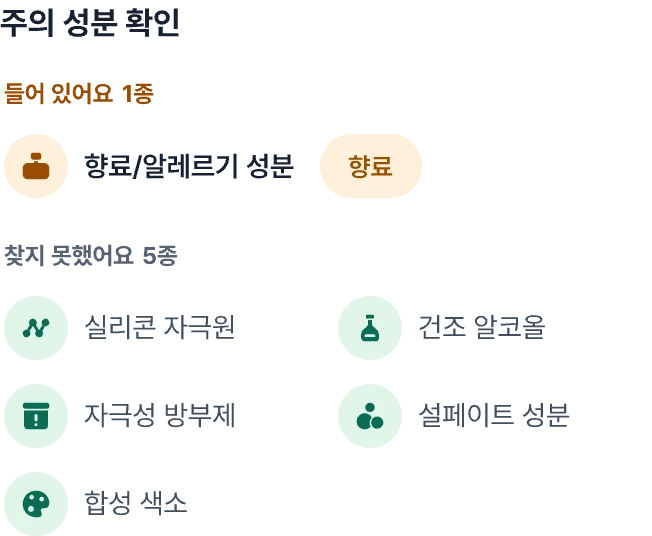
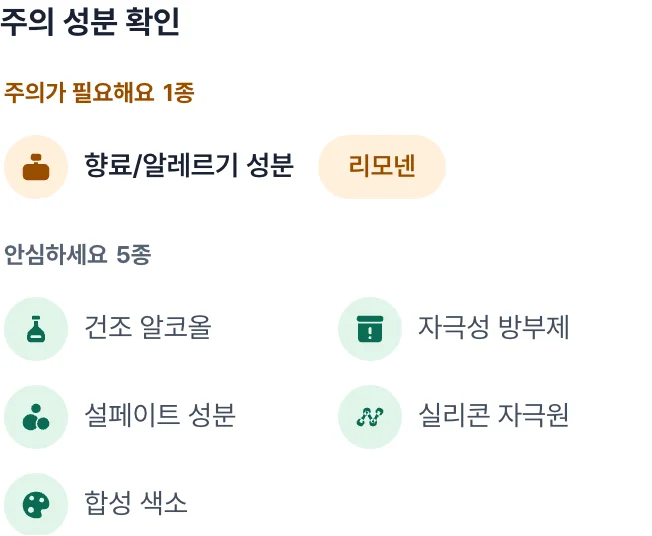
refactor : 제품 상세 고민별 성분과 주의 성분 확인 문구 정리

diff --git a/client/components/product/ProductDetail.test.tsx b/client/components/product/ProductDetail.test.tsx
@@ -3,7 +3,7 @@
  */
 import type { ShelfProductResponse } from "@poudy/api/api.zod";
 import { ToastProvider } from "@poudy/design-system/toast";
-import { act, render as renderElement, screen, waitFor, within } from "@testing-library/react";
+import { act, fireEvent, render as renderElement, screen, waitFor, within } from "@testing-library/react";
 import userEvent from "@testing-library/user-event";
 import { afterEach, beforeEach, describe, expect, it, vi } from "vitest";
 
@@ -71,7 +71,7 @@ describe("제품 성분 요약", () => {
       },
     };
     const { rerender } = render(<ProductDetail product={product} />);
-    const section = screen.getByRole("heading", { name: "고민별 성분" }).closest("section")!;
+    const section = screen.getByRole("heading", { name: "이런 사람에게 추천해요" }).closest("section")!;
     const caution = screen.getByRole("heading", { name: "주의 성분 확인" }).closest("section")!;
     const personal = document.querySelector('[data-shelf-intro="unsuitable"]')!;
     const opener = screen.getByRole("button", { name: `전체 성분 ${product.selectedPart.ingredients.length}개 보기` });
@@ -463,7 +463,9 @@ describe("성분 정보 선택 차단", () => {
   it("고민별 성분에도 선택을 막는 표시를 단다", () => {
     render(<ProductDetail product={productDetails[0]} />);
 
-    expect(screen.getByRole("heading", { name: "고민별 성분" }).closest("section")).toHaveAttribute("data-no-select");
+    expect(screen.getByRole("heading", { name: "이런 사람에게 추천해요" }).closest("section")).toHaveAttribute(
+      "data-no-select",
+    );
   });
 
   it("제품 이름과 정보 출처는 그대로 선택된다", () => {
@@ -477,20 +479,21 @@ describe("성분 정보 선택 차단", () => {
 describe("고민별 성분", () => {
   const taggedProduct = productDetails[0]!;
 
-  /* 같은 말이 유수분 태그에도 있어 쓰임새 영역 안에서만 친다. */
+  /* 같은 말이 유수분 태그에도 있어 쓰임새 영역 안에서만 친다. 고민은 모두 닫힌 채 시작해 먼저 연다. */
   const usageRow = () => {
-    const section = screen.getByRole("heading", { name: "고민별 성분" }).closest("section")!;
+    const section = screen.getByRole("heading", { name: "이런 사람에게 추천해요" }).closest("section")!;
+    const trigger = within(section).getByRole("button", { name: /건조·당김/ });
+    if (trigger.getAttribute("aria-expanded") === "false") fireEvent.click(trigger);
 
-    return within(section)
-      .getByRole("button", { name: /건조·당김/ })
-      .closest("h4")!.parentElement!;
+    return trigger.closest("h4")!.parentElement!;
   };
 
-  it("서버가 제공한 고민명과 효능명을 표시한다", () => {
+  it("서버가 제공한 고민명을 표시하고 효능명과 첫 고민 펼침은 두지 않는다", () => {
     render(<ProductDetail product={taggedProduct} />);
 
-    expect(usageRow()).toHaveTextContent("건조·당김");
-    expect(usageRow()).toHaveTextContent("보습");
+    const trigger = screen.getByRole("button", { name: /건조·당김/ });
+    expect(trigger).toHaveAttribute("aria-expanded", "false");
+    expect(trigger).not.toHaveTextContent("보습");
   });
 
   it("성분 칩마다 성분 설명으로 가는 링크를 둔다", () => {
@@ -589,7 +592,13 @@ describe("성분군 칩", () => {
     },
   };
 
-  const usageSection = () => screen.getByRole("heading", { name: /고민별 성분/ }).closest("section")!;
+  /* 고민은 모두 닫힌 채 시작해 첫 고민을 먼저 연다. */
+  const usageSection = () => {
+    const section = screen.getByRole("heading", { name: /이런 사람에게 추천해요/ }).closest("section")!;
+    const [first] = within(section).getAllByRole("button");
+    if (first?.getAttribute("aria-expanded") === "false") fireEvent.click(first);
+    return section;
+  };
 
   it("고민마다 같은 성분군의 구성 성분이 다르면 누른 항목의 실제 성분만 표시한다", async () => {
     render(
@@ -751,23 +760,23 @@ describe("성분군 칩", () => {
 describe("주의 성분 확인", () => {
   const bundleOf = (title: string) => screen.getByText(title).parentElement!;
 
-  it("들어 있는 기준을 개수와 함께 '들어 있어요' 묶음에 모아 위에 둔다", () => {
+  it("들어 있는 기준을 개수와 함께 '주의가 필요해요' 묶음에 모아 위에 둔다", () => {
     render(<ProductDetail product={untaggedProductDetail} />);
 
-    const contained = bundleOf("들어 있어요");
-    const missing = bundleOf("찾지 못했어요");
+    const contained = bundleOf("주의가 필요해요");
+    const missing = bundleOf("안심하세요");
 
-    expect(contained).toHaveTextContent("들어 있어요1종");
+    expect(contained).toHaveTextContent("주의가 필요해요1종");
     expect(within(contained).getByRole("link", { name: "향료/알레르기 성분" })).toBeInTheDocument();
     expect(contained.compareDocumentPosition(missing) & Node.DOCUMENT_POSITION_FOLLOWING).toBeTruthy();
   });
 
-  it("들어 있지 않은 기준은 '찾지 못했어요' 묶음에 둔다", () => {
+  it("들어 있지 않은 기준은 '안심하세요' 묶음에 둔다", () => {
     render(<ProductDetail product={untaggedProductDetail} />);
 
-    const missing = bundleOf("찾지 못했어요");
+    const missing = bundleOf("안심하세요");
 
-    expect(missing).toHaveTextContent("찾지 못했어요5종");
+    expect(missing).toHaveTextContent("안심하세요5종");
     expect(within(missing).getByRole("link", { name: "건조 알코올" })).toBeInTheDocument();
   });
 
@@ -804,7 +813,7 @@ describe("주의 성분 확인", () => {
   it("들어 있는 기준 옆에 이 제품의 해당 성분을 칩으로 두고 성분 설명으로 잇는다", () => {
     render(<ProductDetail product={untaggedProductDetail} excludeCodes={excludeCodes} />);
 
-    const contained = bundleOf("들어 있어요");
+    const contained = bundleOf("주의가 필요해요");
 
     expect(within(contained).getByRole("link", { name: first!.koreanName })).toHaveAttribute(
       "href",
@@ -816,7 +825,7 @@ describe("주의 성분 확인", () => {
     vi.mocked(track).mockClear();
     render(<ProductDetail product={untaggedProductDetail} excludeCodes={excludeCodes} />);
 
-    await userEvent.click(within(bundleOf("들어 있어요")).getByRole("link", { name: first!.koreanName }));
+    await userEvent.click(within(bundleOf("주의가 필요해요")).getByRole("link", { name: first!.koreanName }));
 
     expect(await screen.findByRole("dialog")).toBeInTheDocument();
     expect(track).toHaveBeenCalledWith("ingredient_sheet_opened", {
@@ -829,7 +838,7 @@ describe("주의 성분 확인", () => {
   it("성분군 목록을 받지 못해 걸린 성분을 모르면 칩을 두지 않는다", () => {
     render(<ProductDetail product={untaggedProductDetail} />);
 
-    expect(within(bundleOf("들어 있어요")).getAllByRole("link")).toHaveLength(1);
+    expect(within(bundleOf("주의가 필요해요")).getAllByRole("link")).toHaveLength(1);
   });
 
   it("들어 있지 않은 기준은 성분 목록 없이 성분군 설명만 보여 준다", async () => {
@@ -876,7 +885,7 @@ describe("주의 성분 확인", () => {
     expect(within(sheet).queryByRole("heading", { name: "이 제품에 든 성분" })).not.toBeInTheDocument();
   });
 
-  it("들어 있는 기준이 없으면 '찾지 못했어요' 묶음만 둔다", () => {
+  it("들어 있는 기준이 없으면 '안심하세요' 묶음만 둔다", () => {
     const product = {
       ...untaggedProductDetail,
       selectedPart: {
@@ -889,8 +898,8 @@ describe("주의 성분 확인", () => {
     };
     render(<ProductDetail product={product} />);
 
-    expect(screen.queryByText("들어 있어요")).not.toBeInTheDocument();
-    expect(bundleOf("찾지 못했어요")).toHaveTextContent("찾지 못했어요6종");
+    expect(screen.queryByText("주의가 필요해요")).not.toBeInTheDocument();
+    expect(bundleOf("안심하세요")).toHaveTextContent("안심하세요6종");
   });
 });
 

diff --git a/client/components/product/ConcernIngredients.test.tsx b/client/components/product/ConcernIngredients.test.tsx
@@ -41,14 +41,17 @@ const part: ProductPartResponse = {
 };
 
 describe("고민별 성분 아코디언", () => {
-  it("첫 고민을 열고 서버가 합쳐 준 항목을 한 목록으로 표시하며 효능명은 헤더에만 둔다", () => {
+  it("모든 고민을 닫은 채 두고, 펼치면 서버가 합쳐 준 항목을 한 목록으로 표시하며 효능명은 두지 않는다", async () => {
     render(<UsageIngredients productId={1} part={part} />);
+    expect(screen.getByRole("heading", { name: "이런 사람에게 추천해요" })).toBeInTheDocument();
     const buttons = screen.getAllByRole("button");
     expect(buttons).toHaveLength(2);
-    expect(buttons[0]).toHaveTextContent("서버 고민명서버 수분 효능명 · 서버 장벽 효능명성분 3종");
-    expect(buttons[0]).toHaveAttribute("aria-expanded", "true");
-    expect(buttons[1]).toHaveTextContent("서버 두 번째 고민서버 주름 효능명성분 1종");
+    expect(buttons[0]).toHaveTextContent("서버 고민명성분 3종");
+    expect(buttons[0]).toHaveAttribute("aria-expanded", "false");
+    expect(buttons[1]).toHaveTextContent("서버 두 번째 고민성분 1종");
     expect(buttons[1]).toHaveAttribute("aria-expanded", "false");
+    expect(screen.queryByText(/서버 수분 효능명/)).not.toBeInTheDocument();
+    await userEvent.click(buttons[0]);
     const content = document.getElementById(buttons[0].getAttribute("aria-controls")!)!;
     expect(within(content).getAllByRole("list")).toHaveLength(1);
     expect(within(content).queryByText("서버 수분 효능명")).not.toBeInTheDocument();
@@ -67,15 +70,16 @@ describe("고민별 성분 아코디언", () => {
     const [first, second] = screen.getAllByRole("button");
     first.focus();
     await userEvent.keyboard("{Enter}");
+    expect(first).toHaveAttribute("aria-expanded", "true");
+    await userEvent.keyboard("{Enter}");
     expect(first).toHaveAttribute("aria-expanded", "false");
     await userEvent.tab();
     expect(second).toHaveFocus();
     await userEvent.keyboard(" ");
     expect(second).toHaveAttribute("aria-expanded", "true");
     const content = document.getElementById(second.getAttribute("aria-controls")!)!;
-    expect(within(second).getByText("서버 주름 효능명")).toBeInTheDocument();
-    expect(within(content).queryByText("서버 주름 효능명")).not.toBeInTheDocument();
-    expect(screen.getByRole("link", { name: "글리세린" })).toBeInTheDocument();
+    expect(screen.queryByText("서버 주름 효능명")).not.toBeInTheDocument();
+    expect(within(content).getByRole("link", { name: "글리세린" })).toBeInTheDocument();
   });
 
   it("고민별 결과가 비었으면 영역을 숨긴다", () => {

diff --git a/client/components/product/UsageIngredients.tsx b/client/components/product/UsageIngredients.tsx
@@ -56,11 +56,11 @@ export function UsageIngredients({
 
   return (
     <section data-no-select className="flex flex-col gap-4">
-      <h3 className="text-section leading-snug font-bold text-text-primary">고민별 성분</h3>
+      <h3 className="text-section leading-snug font-bold text-text-primary">이런 사람에게 추천해요</h3>
       <div className="flex flex-col gap-2">
-        {part.concernGroups.map((concern, index) => (
+        {part.concernGroups.map((concern) => (
           <div key={concern.code} className="concern-card rounded-lg">
-            <Disclosure defaultOpen={index === 0}>
+            <Disclosure>
               <h4>
                 <DisclosureTrigger>
                   <button
@@ -73,13 +73,8 @@ export function UsageIngredients({
                     </span>
                     {/* 이름 칸은 고민 이름 폭을 기본으로 둔다. 글자를 키워 자리가 모자라면 이름이 갈라지는 대신 성분 수가 아래로 내려간다. */}
                     <span className="flex min-w-0 flex-1 flex-wrap items-center justify-between gap-x-3 gap-y-1">
-                      <span className="flex min-w-min grow basis-0 flex-wrap items-center gap-x-2 gap-y-1">
-                        <span className="text-body font-semibold whitespace-nowrap text-text-primary">
-                          {concern.name}
-                        </span>
-                        <span className="text-caption text-text-secondary">
-                          {concern.effects.map((effect) => effect.name).join(" · ")}
-                        </span>
+                      <span className="min-w-min grow basis-0 text-body font-semibold whitespace-nowrap text-text-primary">
+                        {concern.name}
                       </span>
                       <span className="text-caption whitespace-nowrap text-text-secondary">
                         성분 {concernIngredientCount(concern)}종

diff --git a/client/components/product/CautionCheck.tsx b/client/components/product/CautionCheck.tsx
@@ -23,7 +23,7 @@ type Sheet =
   { readonly kind: "group"; readonly group: CautionGroup } | { readonly kind: "ingredient"; readonly id: number };
 
 /**
- * 주의 성분 확인(명세 S24 `주의 성분 점검 · 기준 아이콘`). 기준을 공개 전성분에 '들어 있어요'와 '찾지 못했어요'로
+ * 주의 성분 확인(명세 S24 `주의 성분 점검 · 기준 아이콘`). 기준을 공개 전성분에 '주의가 필요해요'(들어 있음)와 '안심하세요'(찾지 못함)로
  * 나눠 보여 준다. 들어 있는 기준을 위에 두어 눈이 먼저 닿게 하고, 기준 이름 뒤에 걸린 성분을 칩으로 늘어놓는다.
  *
  * 기준을 누르면 성분군 시트를 열어 그 기준이 무엇인지와 이 제품에 든 해당 성분을 보여 준다.
@@ -69,7 +69,7 @@ export function CautionCheck({
 
       <div className="flex flex-col gap-5 px-0.5 pt-1">
         {contained.length > 0 ? (
-          <CautionBundle title="들어 있어요" count={contained.length} tone="contains">
+          <CautionBundle title="주의가 필요해요" count={contained.length} tone="contains">
             <ul className="flex flex-col gap-3">
               {contained.map((group) => (
                 /*
@@ -90,7 +90,7 @@ export function CautionCheck({
         ) : null}
 
         {missing.length > 0 ? (
-          <CautionBundle title="찾지 못했어요" count={missing.length} tone="missing">
+          <CautionBundle title="안심하세요" count={missing.length} tone="missing">
             {/*
               이름 길이가 제각각이라 흘려 놓으면 줄마다 끝이 들쭉날쭉하다. 한 줄에 두 칸씩 둔다.
               칸마다 폭의 2/5 를 기본으로 주고 남는 폭을 나눠 가져, 1배에서는 두 칸이 같은 폭이 된다.

diff --git a/client/app/about/page.tsx b/client/app/about/page.tsx
@@ -418,7 +418,7 @@ export default function AboutPage() {
           <div className="flex justify-center rounded-2xl bg-background px-4 py-5 min-[600px]:bg-surface min-[600px]:p-6 lg:min-h-110 lg:items-center lg:p-10">
             <div className="min-[600px]:rounded-2xl min-[600px]:bg-background min-[600px]:p-5 lg:bg-transparent lg:p-0">
               <SnippetImage
-                alt="주의 성분 확인. 향료/알레르기 성분이 들어 있다고 알려 주고, 실리콘 자극원·건조 알코올 등 5종은 찾지 못했다고 보여 준다."
+                alt="주의 성분 확인. 향료/알레르기 성분은 '주의가 필요해요'로 알려 주고, 건조 알코올·자극성 방부제 등 5종은 '안심하세요'로 보여 준다."
                 narrow={{ src: "/images/about/full-ingredients-narrow.webp", width: 326, height: 268 }}
                 wide={{ src: "/images/about/full-ingredients-wide.webp", width: 420, height: 308 }}
                 className="block h-auto max-w-full"

diff --git a/client/lib/domain/caution-check.ts b/client/lib/domain/caution-check.ts
@@ -1,7 +1,7 @@
 import type { ExcludeGroupResponse, IngredientGroupResponse } from "@poudy/api/api.zod";
 
 /**
- * 기준을 공개 전성분에 '들어 있어요'와 '찾지 못했어요'로 나눈다. 같은 쪽끼리는 서버가 준 순서를 지킨다.
+ * 기준을 공개 전성분에 '주의가 필요해요'(들어 있음)와 '안심하세요'(찾지 못함)로 나눈다. 같은 쪽끼리는 서버가 준 순서를 지킨다.
  */
 export const partitionCautions = <T extends ExcludeGroupResponse>(
   groups: readonly T[],

diff --git a/client/app/products/[productId]/SPEC.md b/client/app/products/[productId]/SPEC.md
@@ -147,7 +147,7 @@ S24 개편(분류 경로, 물방울 단계 이름, 주의 성분 확인 등)은 
 
 - 누른 탭이나 칩은 누르는 즉시 고른 것으로 보입니다(`useOptimistic`). 이동이 끝나면 서버가 그린 값으로 돌아갑니다.
 - 패널은 FEEDBACK F02를 따릅니다. 기다리는 동안 패널에 `aria-busy`를 달고, 300ms가 지나면 패널 내용을 스켈레톤(`PartPanelSkeleton`)으로 바꿉니다. 켠 스켈레톤은 적어도 500ms 동안 유지합니다. 펄스로 깜빡이고, 움직임 줄이기에서는 멈춘 면으로 둡니다.
-- 스켈레톤은 패널 첫 화면의 모양을 따릅니다. 나에게 안 맞는 성분 카드, 고민별 성분, 주의 성분 확인, 전체 성분 버튼의 자리를 차례로 두고, 아래쪽의 비슷한 제품과 정보 출처는 그리지 않습니다.
+- 스켈레톤은 패널 첫 화면의 모양을 따릅니다. 나에게 안 맞는 성분 카드, 고민별 성분(이런 사람에게 추천해요), 주의 성분 확인, 전체 성분 버튼의 자리를 차례로 두고, 아래쪽의 비슷한 제품과 정보 출처는 그리지 않습니다.
 - 스켈레톤이 10초를 넘기면 그 위에 `SkeletonSlowNotice`('시간이 조금 걸리고 있어요' + [다시 시도])를 둡니다. [다시 시도]는 기다리던 구성품으로 다시 이동합니다.
 - 기다리는 중에 원래 보던 탭을 다시 누르면 기다림을 지웁니다. 원래 구성품으로 가는 이동이 기다리던 이동을 대신하므로, 늦게 온 응답이 패널을 바꾸지 않습니다. 기다리는 구성품을 다시 누르면 아무것도 하지 않습니다.
 - 기다림은 이동을 감싼 transition이 끝나면 함께 끝납니다. 다른 이동이 앞의 이동을 버려도 transition이 함께 끝나므로 스켈레톤이 남지 않습니다.
@@ -162,13 +162,14 @@ S24 개편(분류 경로, 물방울 단계 이름, 주의 성분 확인 등)은 
 - `warning-border`는 명세 변수 `ui-warning-border`에서 새로 만든 토큰입니다.
 - 나에게 안 맞는 성분의 빨간 칩은 `danger-soft` 면과 `danger-border` 테두리입니다. hover와 눌림에서는 면을 `danger-border`로, 글자를 `danger-action-pressed`로 한 단계 진하게 바꿉니다(`fb-tint-danger`, STATE S03 '옅은 색 면'). 칩 이름은 줄을 바꾸지 않고, 한 칩이 칩 묶음보다 넓으면 말줄임으로 자릅니다. 잘려도 칩의 접근성 이름과 칩을 누르면 열리는 시트에는 전체 이름이 있습니다.
 - 주의 성분 기준의 아이콘 원과 이름을 담은 칸도 높이를 32로 둡니다.
-- 주의 성분 기준 이름 칸은 '들어 있어요'와 '찾지 못했어요'가 같은 규격입니다. hover 면은 가상 요소로 위아래 2씩 넓혀 36, 누르는 영역은 위아래 4씩 넓혀 40입니다.
-- 주의 성분 확인의 '들어 있어요' 행은 기준 이름 칸 바로 뒤에 걸린 성분 칩 묶음을 잇습니다. 이름 옆에 행 폭의 절반이 남지 않거나 가장 넓은 칩이 들어가지 않으면 묶음 전체가 이름 아래 8로 내려갑니다. 칩이 4개 이상인 행은 칩 묶음을 늘 이름 아래에 둡니다. 기준 이름의 hover 면은 이름 칸 폭만 칠합니다. 행 사이는 12이고, 구분선은 두지 않습니다.
+- 주의 성분 확인은 들어 있는 기준을 '주의가 필요해요', 찾지 못한 기준을 '안심하세요' 묶음으로 나눕니다(#1181). 기준 이름 칸은 두 묶음이 같은 규격입니다. hover 면은 가상 요소로 위아래 2씩 넓혀 36, 누르는 영역은 위아래 4씩 넓혀 40입니다.
+- 주의 성분 확인의 '주의가 필요해요' 행은 기준 이름 칸 바로 뒤에 걸린 성분 칩 묶음을 잇습니다. 이름 옆에 행 폭의 절반이 남지 않거나 가장 넓은 칩이 들어가지 않으면 묶음 전체가 이름 아래 8로 내려갑니다. 칩이 4개 이상인 행은 칩 묶음을 늘 이름 아래에 둡니다. 기준 이름의 hover 면은 이름 칸 폭만 칠합니다. 행 사이는 12이고, 구분선은 두지 않습니다.
 
 ### 고민별 성분
 
-- 고민명, 효능명, 표시 순서는 서버 응답을 따릅니다. 서버는 고유 성분 수가 많은 순서로 고민을 최대 3개 제공합니다.
-- 첫 고민은 펼쳐 두고, 나머지는 접어 둡니다. 펼친 카드는 회색 면(`layer`)입니다.
+- 섹션 제목은 '이런 사람에게 추천해요'입니다(#1181). 고민명과 표시 순서는 서버 응답을 따릅니다. 서버는 고유 성분 수가 많은 순서로 고민을 최대 3개 제공합니다.
+- 고민 머리에는 고민명과 성분 수만 두고 효능명은 표시하지 않습니다.
+- 모든 고민을 접어 둡니다. 펼친 카드는 회색 면(`layer`)입니다.
 - 펼친 카드 안의 헤더와 칩 hover는 한 단계 진한 `hover-on-surface`입니다(STATE S03). 기본 hover 색은 카드 바탕과 같아 보이지 않기 때문입니다.
 - 아이콘 원은 `surface`이고, 뒤가 회색 면이 되는 펼침과 hover에서는 `background`로 바꿉니다.
 - 고민 이름은 줄을 바꾸지 않습니다. 글자를 키워 자리가 모자라면 이름이 갈라지는 대신 성분 수가 이름 아래로 내려갑니다.
